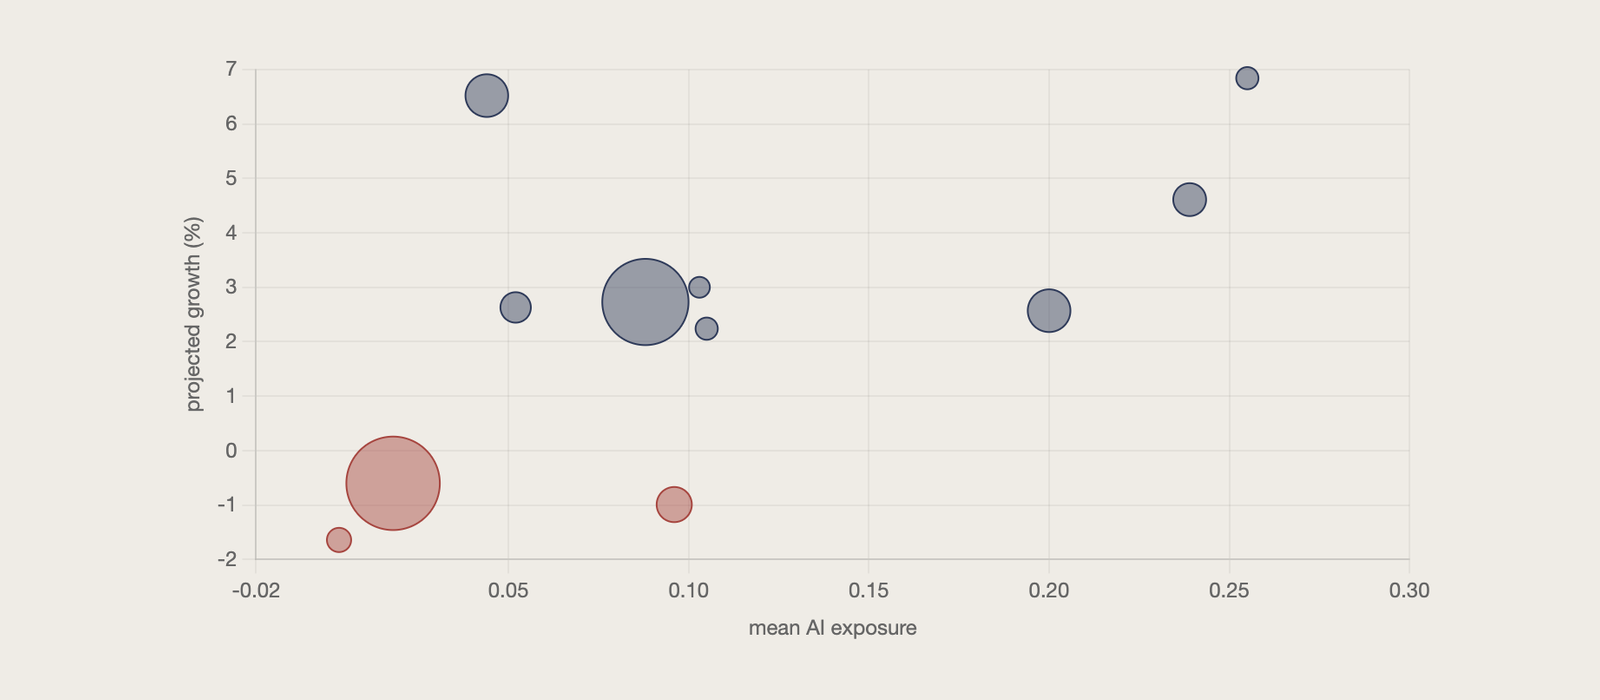
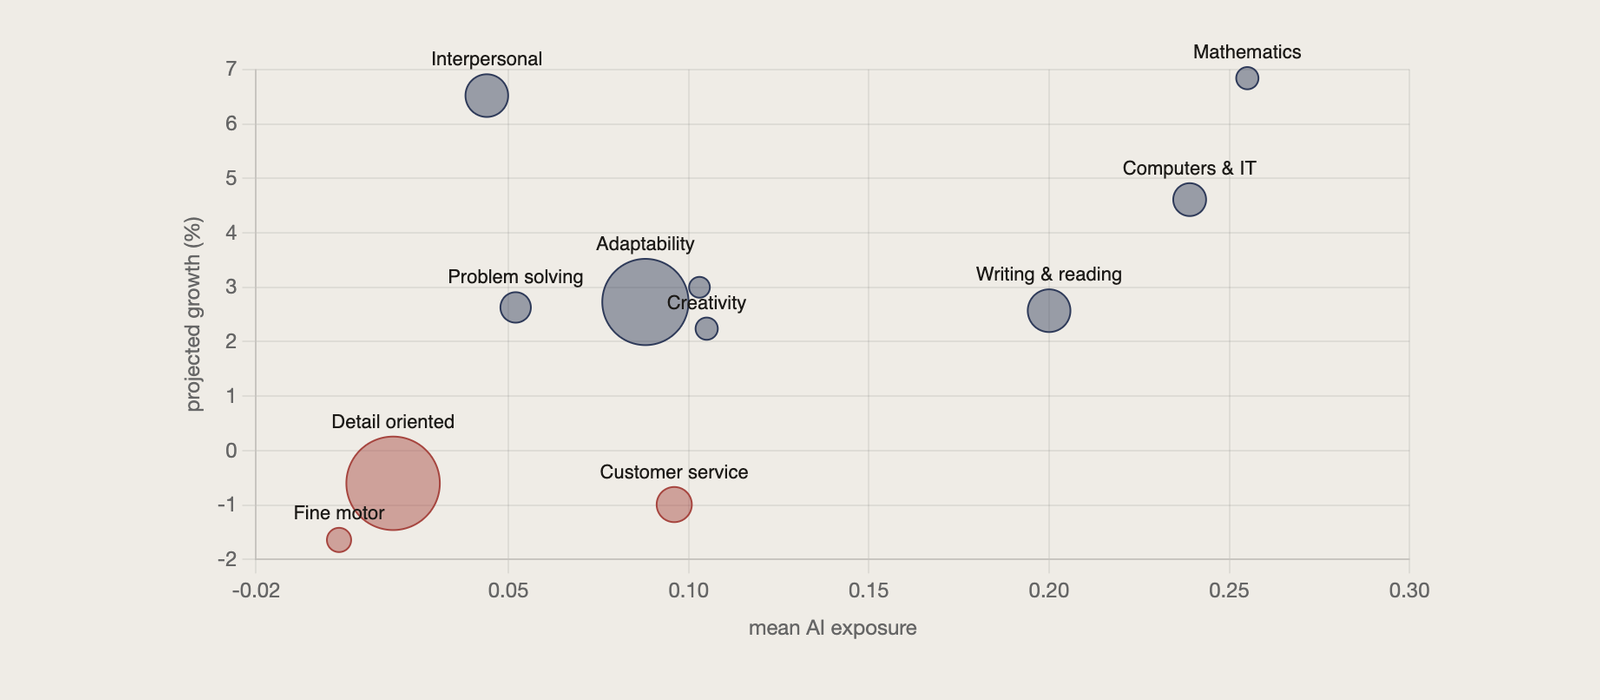
Fix peaches divider placement; regenerate thumbnail with chart labels

diff --git a/peaches/peaches.html b/peaches/peaches.html
@@ -56,9 +56,9 @@ footer a{color:var(--accent)}
 <header class="project-hero">
 <a class="back-link" href="/">← Back</a>
 <h1>The Market for <em>Peaches</em></h1>
+</header>
 <p class="ln">In 1970, George Akerlof published "The Market for Lemons." On a used-car lot there are lemons and there are peaches, bad cars and good ones, and only the seller knows which is which. The buyer, unable to tell, offers the average price of a car on the lot; the owners of peaches pull their cars rather than sell good ones at that price, the average quality falls, the price follows it down, and the lot converges to lemons. Markets respond with guarantees, brands, and certification. Akerlof would win a Nobel prize for his work.</p>
 <p class="ln">Labor runs the same experiment, except peaches cannot really exit; the best they can do is sell at the lemon price when possible. To see how that plays out, I analyzed a decade of BLS employment projections, CPS employment by age, AI-exposure scores for 756 occupations, and current Federal Reserve research. The chain, 2024&ndash;34:</p>
-</header>
 <p class="ln">Fewer births since 2008 means fewer young workers: the 16&ndash;24 labor force falls 10% this decade while the 75+ labor force grows 70%.</p>
 <div class="chart"><div class="cap">Labor force change by age, 2024&ndash;34</div><div class="cb" style="height:260px"><canvas id="ag" aria-label="16 to 24 falls about 10 percent, 75 plus grows 70 percent"></canvas></div></div>
 <p class="ln">Employment can only outgrow the labor force while unemployment is falling, and that tailwind is spent. Next decade both grow 0.3% a year.</p>